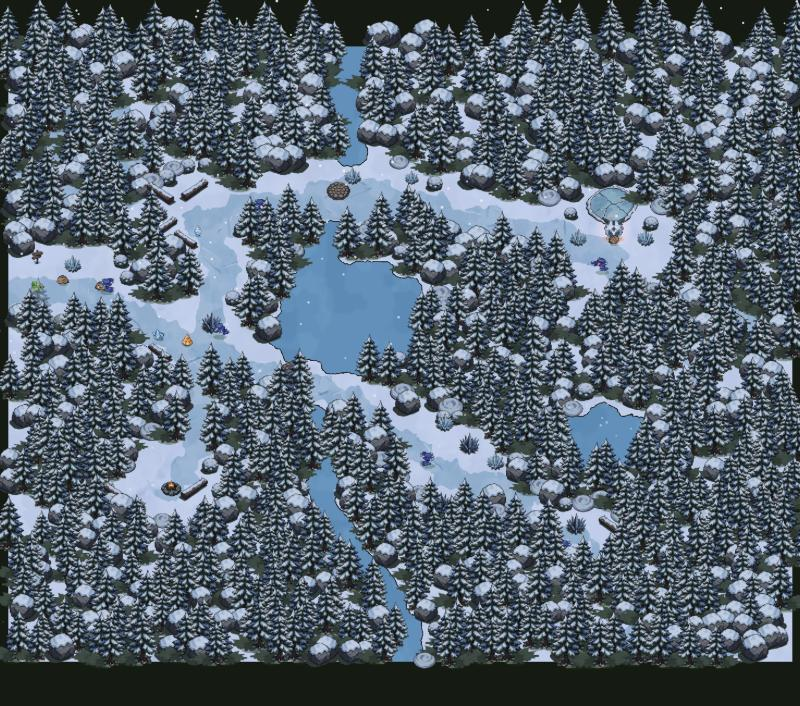
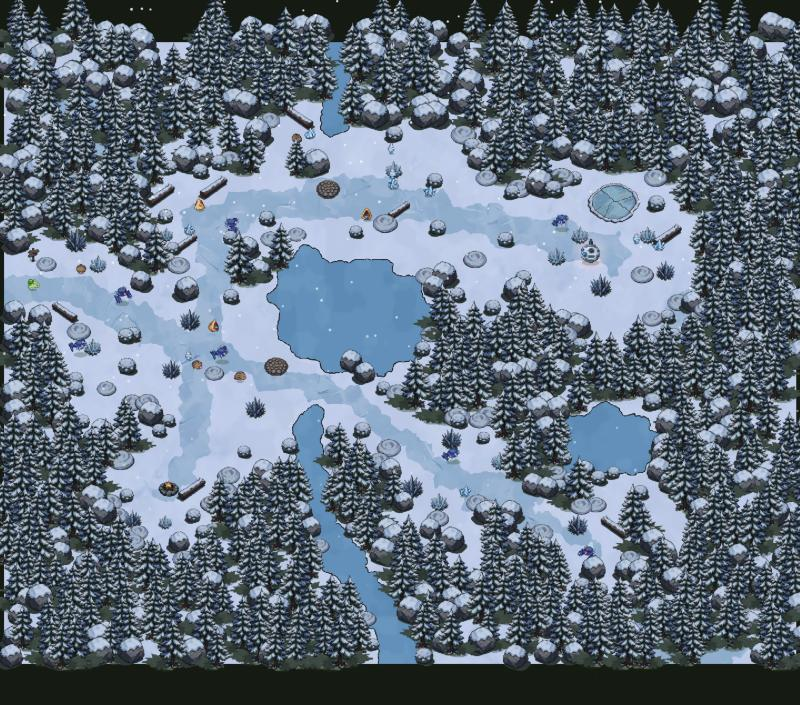
Explanadas en las zonas de bioma: pasillos y espacios abiertos
Dos explanadas por zona en el camino principal (contorno irregular, unas tres veces un
claro) y la arena del alfa ampliada: ritmo pasillo → espacio abierto → pasillo. Dentro,
islas sueltas de relleno y más salvajes; ríos y lagunas no las inundan. En el borde sur
de los huecos el macizo lleva piezas bajas, para que en vista 3/4 las copas no tapen el
hueco y lo que se ve coincida con lo que se pisa. Herramienta tools/zonas/ para pintar la
estructura de las seis zonas sin abrir el juego. Documentado en docs/GDD-mundo.md §5c.

diff --git a/src/data/biomas.ts b/src/data/biomas.ts
@@ -13,6 +13,9 @@
 // 6. Relleno suelto fuera de claros y senderos; piezas sueltas por el borde de los claros, en los claros o en el agua.
 // 7. Salvajes: 2-3 por claro, con nivel de `niveles[0]` (el de la entrada) a `niveles[1]` (el del fondo).
 //
+// Explanadas (2026-10-15, tras ver que con el macizo "todo es pasillo"): dos espacios amplios en el camino principal
+// (a un tercio y a dos tercios del recorrido) y la arena del alfa en el claro del hito. Ritmo pasillo → espacio
+// abierto → pasillo. Dentro, islas sueltas de relleno (cubren sin cerrar el paso) y más salvajes.
 // Macizo (2026-10-15, tras ver que las zonas eran "un lienzo en blanco decorado"): lo transitable se EXCAVA. Solo se
 // anda por los claros, los pasillos (el principal más ancho), unas bolsas sin salida a un lado del camino y el sendero
 // estrecho del secreto; todo lo demás es macizo (`Macizo`, rejilla de 8 px): no se cruza y se llena de piezas de muro y
@@ -46,6 +49,7 @@ interface DefZona {
   id: MapaId; bioma: Bioma; nombre: string; lema: string; bienvenida: string; sal: number;
   puertas: Puerta[];                  // la primera es la entrada: de ahí sube el nivel
   muro: string[]; relleno: string[];   // macizo: muro al fondo, muro y relleno en el borde con lo transitable
+  bajo: string[];                     // piezas bajas para el borde sur de los huecos (un árbol ahí taparía el hueco con su copa)
   rio?: boolean;                      // un río (del agua del bioma) entre la entrada y el hito, con vados
   claros: number;
   agua?: { tipo: 'mar'; lado: Lado } | { tipo: 'lagunas'; n: number };
@@ -119,9 +123,10 @@ function zona(def: DefZona, semilla: number): MapaAventura {
     return y - (H * 0.7 + olaX);
   };
   // El río y los vados (donde un camino cruza agua que no es el mar) se definen cuando hay caminos.
-  let enRio = (_x: number, _y: number, _m: number) => false, vado = (_x: number, _y: number) => false;
+  // Las explanadas (más abajo) también quedan secas: las lagunas no se las comen.
+  let enRio = (_x: number, _y: number, _m: number) => false, vado = (_x: number, _y: number) => false, seca = (_x: number, _y: number) => false;
   const enAgua = (x: number, y: number, m = 0) => costa(x, y) > -m
-    || (!(m <= 0 && vado(x, y)) && (lagunas.some(l => ((x - l.x) / (l.rx + m)) ** 2 + ((y - l.y) / (l.ry + m)) ** 2 < 1) || enRio(x, y, m)));
+    || (!(m <= 0 && (vado(x, y) || seca(x, y))) && (lagunas.some(l => ((x - l.x) / (l.rx + m)) ** 2 + ((y - l.y) / (l.ry + m)) ** 2 < 1) || enRio(x, y, m)));
 
   // 2. Claros: uno junto a cada salida y más por el interior, en tierra firme.
   const claros: (Punto & { rad: number })[] = sitios.map(s => ({ x: Math.min(W - 130, Math.max(130, s.dentro.x)), y: Math.min(H - 130, Math.max(130, s.dentro.y)), rad: 80 }));
@@ -179,6 +184,28 @@ function zona(def: DefZona, semilla: number): MapaAventura {
     if (bolsas.some(o => Math.hypot(o.x - b.x, o.y - b.y) < o.rad + b.rad + 80)) continue;
     bolsas.push(b);
   }
+  // Explanadas: en los claros del camino principal a un tercio y a dos tercios, un contorno irregular (tres elipses
+  // solapadas) unas tres veces más grande que un claro; y la arena del alfa, el claro del hito ampliado.
+  type Elipse = { x: number; y: number; rx: number; ry: number };
+  const explanadas: Elipse[][] = [];
+  const enRuta: Claro[] = [];
+  for (let c: Claro | undefined = lejos; c; c = padre.get(c)) enRuta.unshift(c);
+  for (const f of [1 / 3, 2 / 3]) {
+    const c = enRuta[Math.round(f * (enRuta.length - 1))];
+    if (!c || c === claros[0] || c === lejos || explanadas.some(e => e[0].x === c.x && e[0].y === c.y)) continue;
+    const forma: Elipse[] = [{ x: c.x, y: c.y, rx: entre(150, 190), ry: entre(110, 140) }];
+    for (let k = 0; k < 2; k++) {
+      const a = r() * Math.PI * 2, d = entre(70, 120);
+      forma.push({ x: c.x + Math.cos(a) * d, y: c.y + Math.sin(a) * d * 0.7, rx: entre(100, 140), ry: entre(75, 100) });
+    }
+    for (const e of forma) {   // dentro del mapa, con margen para el borde de macizo
+      e.x = Math.min(W - 110 - e.rx * 0.5, Math.max(110 + e.rx * 0.5, e.x)); e.y = Math.min(H - 110 - e.ry * 0.5, Math.max(110 + e.ry * 0.5, e.y));
+    }
+    explanadas.push(forma);
+  }
+  explanadas.push([{ x: lejos.x, y: lejos.y + 10, rx: Math.max(lejos.rad + 50, 150), ry: Math.max(lejos.rad * 0.8 + 40, 115) }]);   // arena del alfa
+  const enExplanada = (x: number, y: number, m = 0) => explanadas.some(f => f.some(e => ((x - e.x) / (e.rx + m)) ** 2 + ((y - e.y) / (e.ry + m)) ** 2 < 1));
+  seca = (x, y) => enExplanada(x, y, -20);
   // Mallas de 8 px: caminos (para los vados) y todo lo transitable.
   const CEL = 8, GC = Math.ceil(W / CEL), GF = Math.ceil(H / CEL);
   const mCamino = new Uint8Array(GC * GF), mPaso = new Uint8Array(GC * GF);
@@ -194,6 +221,7 @@ function zona(def: DefZona, semilla: number): MapaAventura {
   for (const pt of ptsSecreto) sello(mCamino, pt.x, pt.y, 22);
   mPaso.set(mCamino);
   for (const c of [...todosClaros, ...bolsas]) sello(mPaso, c.x, c.y, c.rad + 10, (c.rad + 10) * 0.8);
+  for (const f of explanadas) for (const e of f) sello(mPaso, e.x, e.y, e.rx, e.ry);
   for (const st of sitios) sello(mPaso, st.dentro.x, st.dentro.y, 60);
   // Con mar: una playa abierta a lo largo de la orilla (el gran espacio abierto de la zona, frente a los senderos).
   if (ag?.tipo === 'mar') for (let j = 0; j < GF; j++) for (let i = 0; i < GC; i++) {
@@ -222,7 +250,7 @@ function zona(def: DefZona, semilla: number): MapaAventura {
       const w = Math.sin(t * 0.006 + fase) * 70 + Math.sin(t * 0.017 + fase) * 22, x = mx - dy * t + dx * w, y = my + dx * t + dy * w;
       if (x > -60 && y > -60 && x < W + 60 && y < H + 60) ptsRio.push({ x, y });
     }
-    enRio = (x, y, m) => (m > 0 || !enClaro(x, y)) && dist(ptsRio, x, y) < 30 + m;
+    enRio = (x, y, m) => (m > 0 || (!enClaro(x, y) && !enExplanada(x, y))) && dist(ptsRio, x, y) < 30 + m;   // claros y explanadas, secos
   }
   // Macizo: lo que no es transitable ni agua.
   const mMacizo = new Uint8Array(GC * GF);
@@ -316,6 +344,10 @@ function zona(def: DefZona, semilla: number): MapaAventura {
     if (!enMaz(jx, Math.min(H - 4, jy))) continue;
     const enBorde = bordeDe(jx, Math.min(H - 4, jy));
     if (!enBorde && r() < 0.35) continue;   // al fondo, algo más claro (lo tapan las copas)
+    // Vista 3/4: lo alto crece hacia arriba. Si justo encima (hasta ~80 px) hay hueco, aquí solo algo bajo, o nada:
+    // si no, la copa taparía el hueco y se vería más estrecho de lo que es.
+    const huecoArriba = [20, 44, 68].some(d => !enMaz(jx, jy - d) && jy - d > 0);
+    if (huecoArriba) { if (r() < 0.55) col.push({ id: pick(def.bajo), x: Math.round(jx), y: Math.round(jy), flip: r() < 0.5, s: entre(0.8, 1.05) }); continue; }
     col.push({ id: pick(enBorde ? borde : def.muro), x: Math.round(jx), y: Math.round(jy), flip: r() < 0.5, s: entre(0.9, 1.2) });
   }
   for (const [id, n, donde] of def.extras) for (let k = 0, i = 0; k < n && i < 600; i++) {
@@ -333,6 +365,22 @@ function zona(def: DefZona, semilla: number): MapaAventura {
     poner({ id, x: Math.round(x), y: Math.round(y), flip: r() < 0.5, s: entre(0.8, 1.1) }, 16); k++;
   }
 
+  // Islas en las explanadas (no en la arena del alfa): relleno suelto que cubre sin cerrar el paso, lejos de los
+  // caminos y del centro de los claros (donde van los hitos locales y los salvajes).
+  const islas = [...def.relleno, ...def.muro];
+  explanadas.slice(0, -1).forEach(f => {
+    const area = f.reduce((s, e) => s + Math.PI * e.rx * e.ry, 0), n = Math.round(area / 30000);
+    for (let k = 0, i = 0; k < n && i < 400; i++) {
+      const e = pick(f), a = r() * Math.PI * 2, d = Math.sqrt(r()) * 0.85;
+      const x = e.x + Math.cos(a) * e.rx * d, y = e.y + Math.sin(a) * e.ry * d;
+      if (enAgua(x, y, 16) || aSendero(x, y) < 40 || enClaro(x, y, -20) || !libre(x, y, 34)) continue;
+      // a veces un grupito de dos o tres, para que haya rincones donde esconderse
+      const g = r() < 0.35 ? 2 + Math.floor(r() * 2) : 1;
+      for (let q = 0; q < g; q++) poner({ id: pick(islas), x: Math.round(x + (q ? entre(-22, 22) : 0)), y: Math.round(y + (q ? entre(-14, 14) : 0)), flip: r() < 0.5, s: entre(0.85, 1.15) }, 22);
+      k++;
+    }
+  });
+
   // 7. Salvajes: 2-3 por claro, con el nivel según el orden de lejanía a la entrada.
   const especies = [...def.especies].sort(() => r() - 0.5).slice(0, 7);
   const salvajes: Ronda[] = [];
@@ -347,6 +395,15 @@ function zona(def: DefZona, semilla: number): MapaAventura {
   });
   if (sec) salvajes.push({ linea: D.rara.linea, nivel: D.rara.nivel, x: Math.round(sec.x), y: Math.round(sec.y + 10) });
   bolsas.forEach((b, i) => { if (i % 2 === 0) salvajes.push({ linea: pick(especies), nivel: Math.round((def.niveles[0] + def.niveles[1]) / 2 + 1), x: Math.round(b.x), y: Math.round(b.y + 8) }); });
+  // Explanadas: 3 salvajes más en cada una (es el espacio de combate), con el nivel de su tramo del recorrido.
+  explanadas.slice(0, -1).forEach((f, i) => {
+    const nv = Math.round(def.niveles[0] + (def.niveles[1] - def.niveles[0]) * (i + 1) / 3);
+    for (let k = 0, t = 0; k < 3 && t < 60; t++) {
+      const e = pick(f), a = r() * Math.PI * 2, d = Math.sqrt(r()) * 0.7, x = Math.round(e.x + Math.cos(a) * e.rx * d), y = Math.round(e.y + Math.sin(a) * e.ry * d);
+      if (enAgua(x, y, 10)) continue;
+      salvajes.push({ linea: pick(especies), nivel: nv + (r() < 0.4 ? 1 : 0), x, y }); k++;
+    }
+  });
   // Solo los que se pueden alcanzar desde la entrada.
   const alcanzables = salvajes.filter(sv => alcanzable(sv.x, sv.y));
 
@@ -363,7 +420,7 @@ function zona(def: DefZona, semilla: number): MapaAventura {
 // ---- Los seis biomas ----
 const DEFS: Record<Bioma, DefZona> = {
   costa: {
-    id: 'costa', bioma: 'costa', diseno: { puntos: ['barca', 'poza_marea', 'red_pesca', 'madera_deriva'], marco: 'roca_costa', miga: 'conchas', descanso: ['hoguera', 'madera_deriva'], rara: { linea: 'lapras', nivel: 16 } },
+    id: 'costa', bioma: 'costa', bajo: ['roca_costa', 'hierba_duna', 'roca_costa'], diseno: { puntos: ['barca', 'poza_marea', 'red_pesca', 'madera_deriva'], marco: 'roca_costa', miga: 'conchas', descanso: ['hoguera', 'madera_deriva'], rara: { linea: 'lapras', nivel: 16 } },
     nombre: 'Costa Brisa', lema: 'Nivel 8-14 · Agua y Volador', sal: 0x0c05a1,
     bienvenida: 'La costa. Arena, mar y viento. Al fondo, el faro.',
     puertas: [{ lado: 'o', t: 0.5, a: 'lago', texto: 'Al lago' }],
@@ -374,7 +431,7 @@ const DEFS: Record<Bioma, DefZona> = {
     especies: ['magikarp', 'wailmer', 'pidgey', 'rookidee', 'pachirisu', 'psyduck', 'marill'], niveles: [8, 14],
   },
   cantera: {
-    id: 'cantera', bioma: 'cantera', rio: true, diseno: { puntos: ['vagoneta', 'andamio', 'cristal_acero', 'roca_mineral'], marco: 'cristal_acero', miga: 'grava', descanso: ['hoguera', 'tronco_caido'], rara: { linea: 'larvitar', nivel: 18 } },
+    id: 'cantera', bioma: 'cantera', bajo: ['roca_mineral', 'arbusto_seco', 'roca_mineral'], rio: true, diseno: { puntos: ['vagoneta', 'andamio', 'cristal_acero', 'roca_mineral'], marco: 'cristal_acero', miga: 'grava', descanso: ['hoguera', 'tronco_caido'], rara: { linea: 'larvitar', nivel: 18 } },
     nombre: 'Cantera Gris', lema: 'Nivel 10-16 · Roca, Tierra, Lucha y Acero', sal: 0xca7e2a,
     bienvenida: 'La cantera. Vagonetas, andamios y mineral en la roca. Al fondo, la boca de la cueva.',
     puertas: [{ lado: 's', t: 0.5, a: 'bosque', texto: 'Al bosque' }, { lado: 'e', t: 0.3, a: 'pantano', texto: 'Al pantano' }],
@@ -385,7 +442,7 @@ const DEFS: Record<Bioma, DefZona> = {
     especies: ['geodude', 'onix', 'larvitar', 'sudowoodo', 'diglett', 'drilbur', 'mudbray', 'rhyhorn', 'machop', 'timburr', 'makuhita', 'aron', 'magnemite'], niveles: [10, 16],
   },
   pantano: {
-    id: 'pantano', bioma: 'pantano', rio: true, diseno: { puntos: ['tronco_podrido', 'cerca_rota', 'farol_fuego_fatuo', 'roca_musgo'], marco: 'farol_fuego_fatuo', miga: 'seta_toxica', descanso: ['hoguera', 'tronco_podrido'], rara: { linea: 'misdreavus', nivel: 20 } },
+    id: 'pantano', bioma: 'pantano', bajo: ['roca_musgo', 'tronco_podrido', 'juncos_secos'], rio: true, diseno: { puntos: ['tronco_podrido', 'cerca_rota', 'farol_fuego_fatuo', 'roca_musgo'], marco: 'farol_fuego_fatuo', miga: 'seta_toxica', descanso: ['hoguera', 'tronco_podrido'], rara: { linea: 'misdreavus', nivel: 20 } },
     nombre: 'Pantano Umbrío', lema: 'Nivel 12-18 · Veneno, Fantasma y Siniestro', sal: 0x9a7a40,
     bienvenida: 'El pantano. Lodo tóxico, lápidas y faroles de fuego fatuo. No pises los charcos morados.',
     puertas: [{ lado: 'o', t: 0.3, a: 'cantera', texto: 'A la cantera' }, { lado: 'n', t: 0.6, a: 'ruinas', texto: 'A las ruinas' }],
@@ -396,7 +453,7 @@ const DEFS: Record<Bioma, DefZona> = {
     especies: ['grimer', 'trubbish', 'zubat', 'gastly', 'litwick', 'misdreavus', 'poochyena', 'sableye', 'murkrow', 'spinarak'], niveles: [12, 18],
   },
   ruinas: {
-    id: 'ruinas', bioma: 'ruinas', rio: true, diseno: { puntos: ['altar', 'estatua', 'cristal_psiquico', 'muro_roto'], marco: 'estatua', miga: 'flores_hada', descanso: ['hoguera', 'columna_rota'], rara: { linea: 'togepi', nivel: 22 } },
+    id: 'ruinas', bioma: 'ruinas', bajo: ['muro_roto', 'columna_rota', 'flores_hada'], rio: true, diseno: { puntos: ['altar', 'estatua', 'cristal_psiquico', 'muro_roto'], marco: 'estatua', miga: 'flores_hada', descanso: ['hoguera', 'columna_rota'], rara: { linea: 'togepi', nivel: 22 } },
     nombre: 'Ruinas Antiguas', lema: 'Nivel 14-20 · Psíquico y Hada', sal: 0x2a1b5e, caminoLosas: true,
     bienvenida: 'Las ruinas. Columnas rotas, cristales que brillan y un arco al fondo.',
     puertas: [{ lado: 's', t: 0.6, a: 'pantano', texto: 'Al pantano' }, { lado: 'o', t: 0.4, a: 'volcan', texto: 'Al volcán' }, { lado: 'e', t: 0.4, a: 'nieve', texto: 'A las cumbres' }],
@@ -406,7 +463,7 @@ const DEFS: Record<Bioma, DefZona> = {
     especies: ['abra', 'ralts', 'natu', 'clefairy', 'togepi', 'flabebe'], niveles: [14, 20],
   },
   volcan: {
-    id: 'volcan', bioma: 'volcan', rio: true, diseno: { puntos: ['cristal_fuego', 'roca_magma', 'obsidiana', 'roca_basalto'], marco: 'cristal_fuego', miga: 'ceniza', descanso: ['hoguera', 'roca_basalto'], rara: { linea: 'dratini', nivel: 26 } },
+    id: 'volcan', bioma: 'volcan', bajo: ['roca_magma', 'obsidiana', 'roca_basalto'], rio: true, diseno: { puntos: ['cristal_fuego', 'roca_magma', 'obsidiana', 'roca_basalto'], marco: 'cristal_fuego', miga: 'ceniza', descanso: ['hoguera', 'roca_basalto'], rara: { linea: 'dratini', nivel: 26 } },
     nombre: 'Volcán Ascua', lema: 'Nivel 18-24 · Fuego y Dragón', sal: 0x701ca0,
     bienvenida: 'El volcán. Ríos de lava, fumarolas y el fósil de un dragón. La lava no se cruza.',
     puertas: [{ lado: 'e', t: 0.4, a: 'ruinas', texto: 'A las ruinas' }],
@@ -417,7 +474,7 @@ const DEFS: Record<Bioma, DefZona> = {
     especies: ['growlithe', 'slugma', 'torkoal', 'gible', 'axew', 'dratini', 'druddigon'], niveles: [18, 24],
   },
   nieve: {
-    id: 'nieve', bioma: 'nieve', rio: true, diseno: { puntos: ['cristal_hielo', 'carambanos', 'tronco_nevado', 'monton_nieve'], marco: 'cristal_hielo', miga: 'arbusto_nevado', descanso: ['hoguera', 'tronco_nevado'], rara: { linea: 'beldum', nivel: 28 } },
+    id: 'nieve', bioma: 'nieve', bajo: ['roca_nevada', 'monton_nieve', 'arbusto_nevado'], rio: true, diseno: { puntos: ['cristal_hielo', 'carambanos', 'tronco_nevado', 'monton_nieve'], marco: 'cristal_hielo', miga: 'arbusto_nevado', descanso: ['hoguera', 'tronco_nevado'], rara: { linea: 'beldum', nivel: 28 } },
     nombre: 'Cumbres Heladas', lema: 'Nivel 20-26 · Hielo', sal: 0x5a0e17,
     bienvenida: 'Las cumbres. Nieve, pinos y cristales de hielo. Al fondo, el estanque helado.',
     puertas: [{ lado: 'o', t: 0.4, a: 'ruinas', texto: 'A las ruinas' }],

diff --git a/tools/zonas/volcar.ts b/tools/zonas/volcar.ts
@@ -1,0 +1,14 @@
+// Vuelca la estructura de las zonas de bioma (src/data/biomas.ts) a JSON, sin abrir el juego: macizo, vértices del
+// suelo (3 = agua), salvajes, alfa y salidas. Lo pinta tools/zonas/estructura.py.
+// Uso (desde la raíz): npx esbuild tools/zonas/volcar.ts --bundle --platform=node --outfile=tools/zonas/volcar.cjs
+//                      node tools/zonas/volcar.cjs tools/zonas/estructura.json [semilla]
+import { writeFileSync } from 'fs';
+import { BIOMAS, zonaBioma } from '../../src/data/biomas';
+
+const semilla = Number(process.argv[3] ?? 123456789), out: Record<string, unknown> = {};
+for (const b of BIOMAS) {
+  const m = zonaBioma(b, semilla), z = m.macizo!;
+  out[b] = { cols: z.cols, filas: z.filas, cel: z.cel, macizo: Array.from(z.datos), vert: m.datos.vert, W: m.W, H: m.H, alfa: m.alfa, salvajes: m.salvajes.map(s => [s.x, s.y]), salidas: m.salidas };
+}
+writeFileSync(process.argv[2], JSON.stringify(out));
+console.log('zonas:', BIOMAS.join(', '), '· semilla', semilla);

diff --git a/tools/zonas/estructura.py b/tools/zonas/estructura.py
@@ -1,0 +1,35 @@
+"""Pinta la estructura de las seis zonas de bioma (de tools/zonas/volcar.ts) en una imagen: transitable (arena),
+macizo (verde oscuro), agua (azul), salvajes (rojo) y alfa (amarillo). Sirve para revisar el diseño (pasillos,
+explanadas, bolsas, ríos) sin abrir el juego.
+
+Uso (desde la raíz): python -I tools/zonas/estructura.py tools/zonas/estructura.json docs/img/estructura_zonas.png
+"""
+import json
+import sys
+
+from PIL import Image, ImageDraw
+
+d = json.load(open(sys.argv[1], encoding='utf-8'))
+tiles = []
+for b, m in d.items():
+    cols, filas, cel, vert = m['cols'], m['filas'], m['cel'], m['vert']
+    im = Image.new('RGB', (cols, filas))
+    px = im.load()
+    for j in range(filas):
+        for i in range(cols):
+            vx, vy = min(len(vert[0]) - 1, round((i + .5) * cel / 24)), min(len(vert) - 1, round((j + .5) * cel / 24))
+            px[i, j] = (60, 110, 170) if vert[vy][vx] == 3 else (40, 60, 40) if m['macizo'][j * cols + i] else (215, 200, 160)
+    im = im.resize((cols * 2, filas * 2), Image.NEAREST)
+    dr = ImageDraw.Draw(im)
+    for x, y in m['salvajes']:
+        dr.ellipse((x / cel * 2 - 3, y / cel * 2 - 3, x / cel * 2 + 3, y / cel * 2 + 3), fill=(200, 40, 40))
+    a = m['alfa']
+    dr.ellipse((a['x'] / cel * 2 - 6, a['y'] / cel * 2 - 6, a['x'] / cel * 2 + 6, a['y'] / cel * 2 + 6), fill=(250, 210, 30))
+    dr.text((6, 4), b, fill=(255, 255, 255))
+    tiles.append(im)
+w, h = tiles[0].size
+c = Image.new('RGB', (3 * w + 8, 2 * h + 4), (0, 0, 0))
+for k, t in enumerate(tiles):
+    c.paste(t, ((k % 3) * (w + 4), (k // 3) * (h + 4)))
+c.save(sys.argv[2])
+print(sys.argv[2], c.size)

diff --git a/docs/GDD-mundo.md b/docs/GDD-mundo.md
@@ -308,6 +308,30 @@ Ahora lo transitable se **excava** (`biomas.ts`, rejilla `Macizo` de 8 px):
 - **Siempre conectada:** lo que no se alcanza desde la entrada pasa a macizo, y los salvajes que no se alcanzan se
   quitan. Comprobado en las seis zonas: hito, salidas y todos los salvajes, alcanzables.
 
+### 5c. Explanadas: pasillos y espacios abiertos (2026-10-15)
+Con el macizo, el usuario: "ahora los mapas son todo pasillo; la combinación de pasillos con espacios abiertos es lo que
+hará las zonas más interesantes". Ahora:
+- **Dos explanadas por zona** en el camino principal, a un tercio y a dos tercios del recorrido. Tienen un contorno
+  irregular de tres elipses y son unas tres veces más grandes que un claro.
+- **La arena del alfa**: el claro del hito, ampliado.
+- **Ritmo:** pasillo → espacio abierto → pasillo. El macizo baja del 71 % a entre el 41 % y el 67 %.
+- **Dentro de cada explanada:**
+  - islas sueltas de relleno (una por cada 30 000 px², a veces en grupitos) que cubren sin cerrar el paso;
+  - 3 salvajes más, porque es el espacio de combate.
+- **Ríos y lagunas no las inundan**: quedan en sus orillas.
+- **Vista 3/4:** un árbol en el borde sur de un hueco lo tapa con su copa, y el hueco parece más estrecho de lo que es.
+  - En ese borde el macizo lleva piezas bajas (`bajo` de cada bioma: rocas, arbustos, montones de nieve, muros
+    bajos) o nada.
+  - Así lo que se ve coincide con lo que se pisa.
+- **Herramienta para revisar la estructura sin abrir el juego** (`tools/zonas/`): `volcar.ts` ejecuta el generador en
+  Node y `estructura.py` pinta lo transitable, el macizo, el agua, los salvajes y el alfa de las seis zonas →
+  [estructura_zonas.png](img/estructura_zonas.png). Se usa así:
+  ```
+  npx esbuild tools/zonas/volcar.ts --bundle --platform=node --outfile=tools/zonas/volcar.cjs
+  node tools/zonas/volcar.cjs tools/zonas/estructura.json [semilla]
+  python -I tools/zonas/estructura.py tools/zonas/estructura.json docs/img/estructura_zonas.png
+  ```
+
 Siguiente paso posible, con arte: **acantilados y desniveles** (bordes de meseta, rampas y escaleras), para tener alturas
 y no solo paredes.
 
